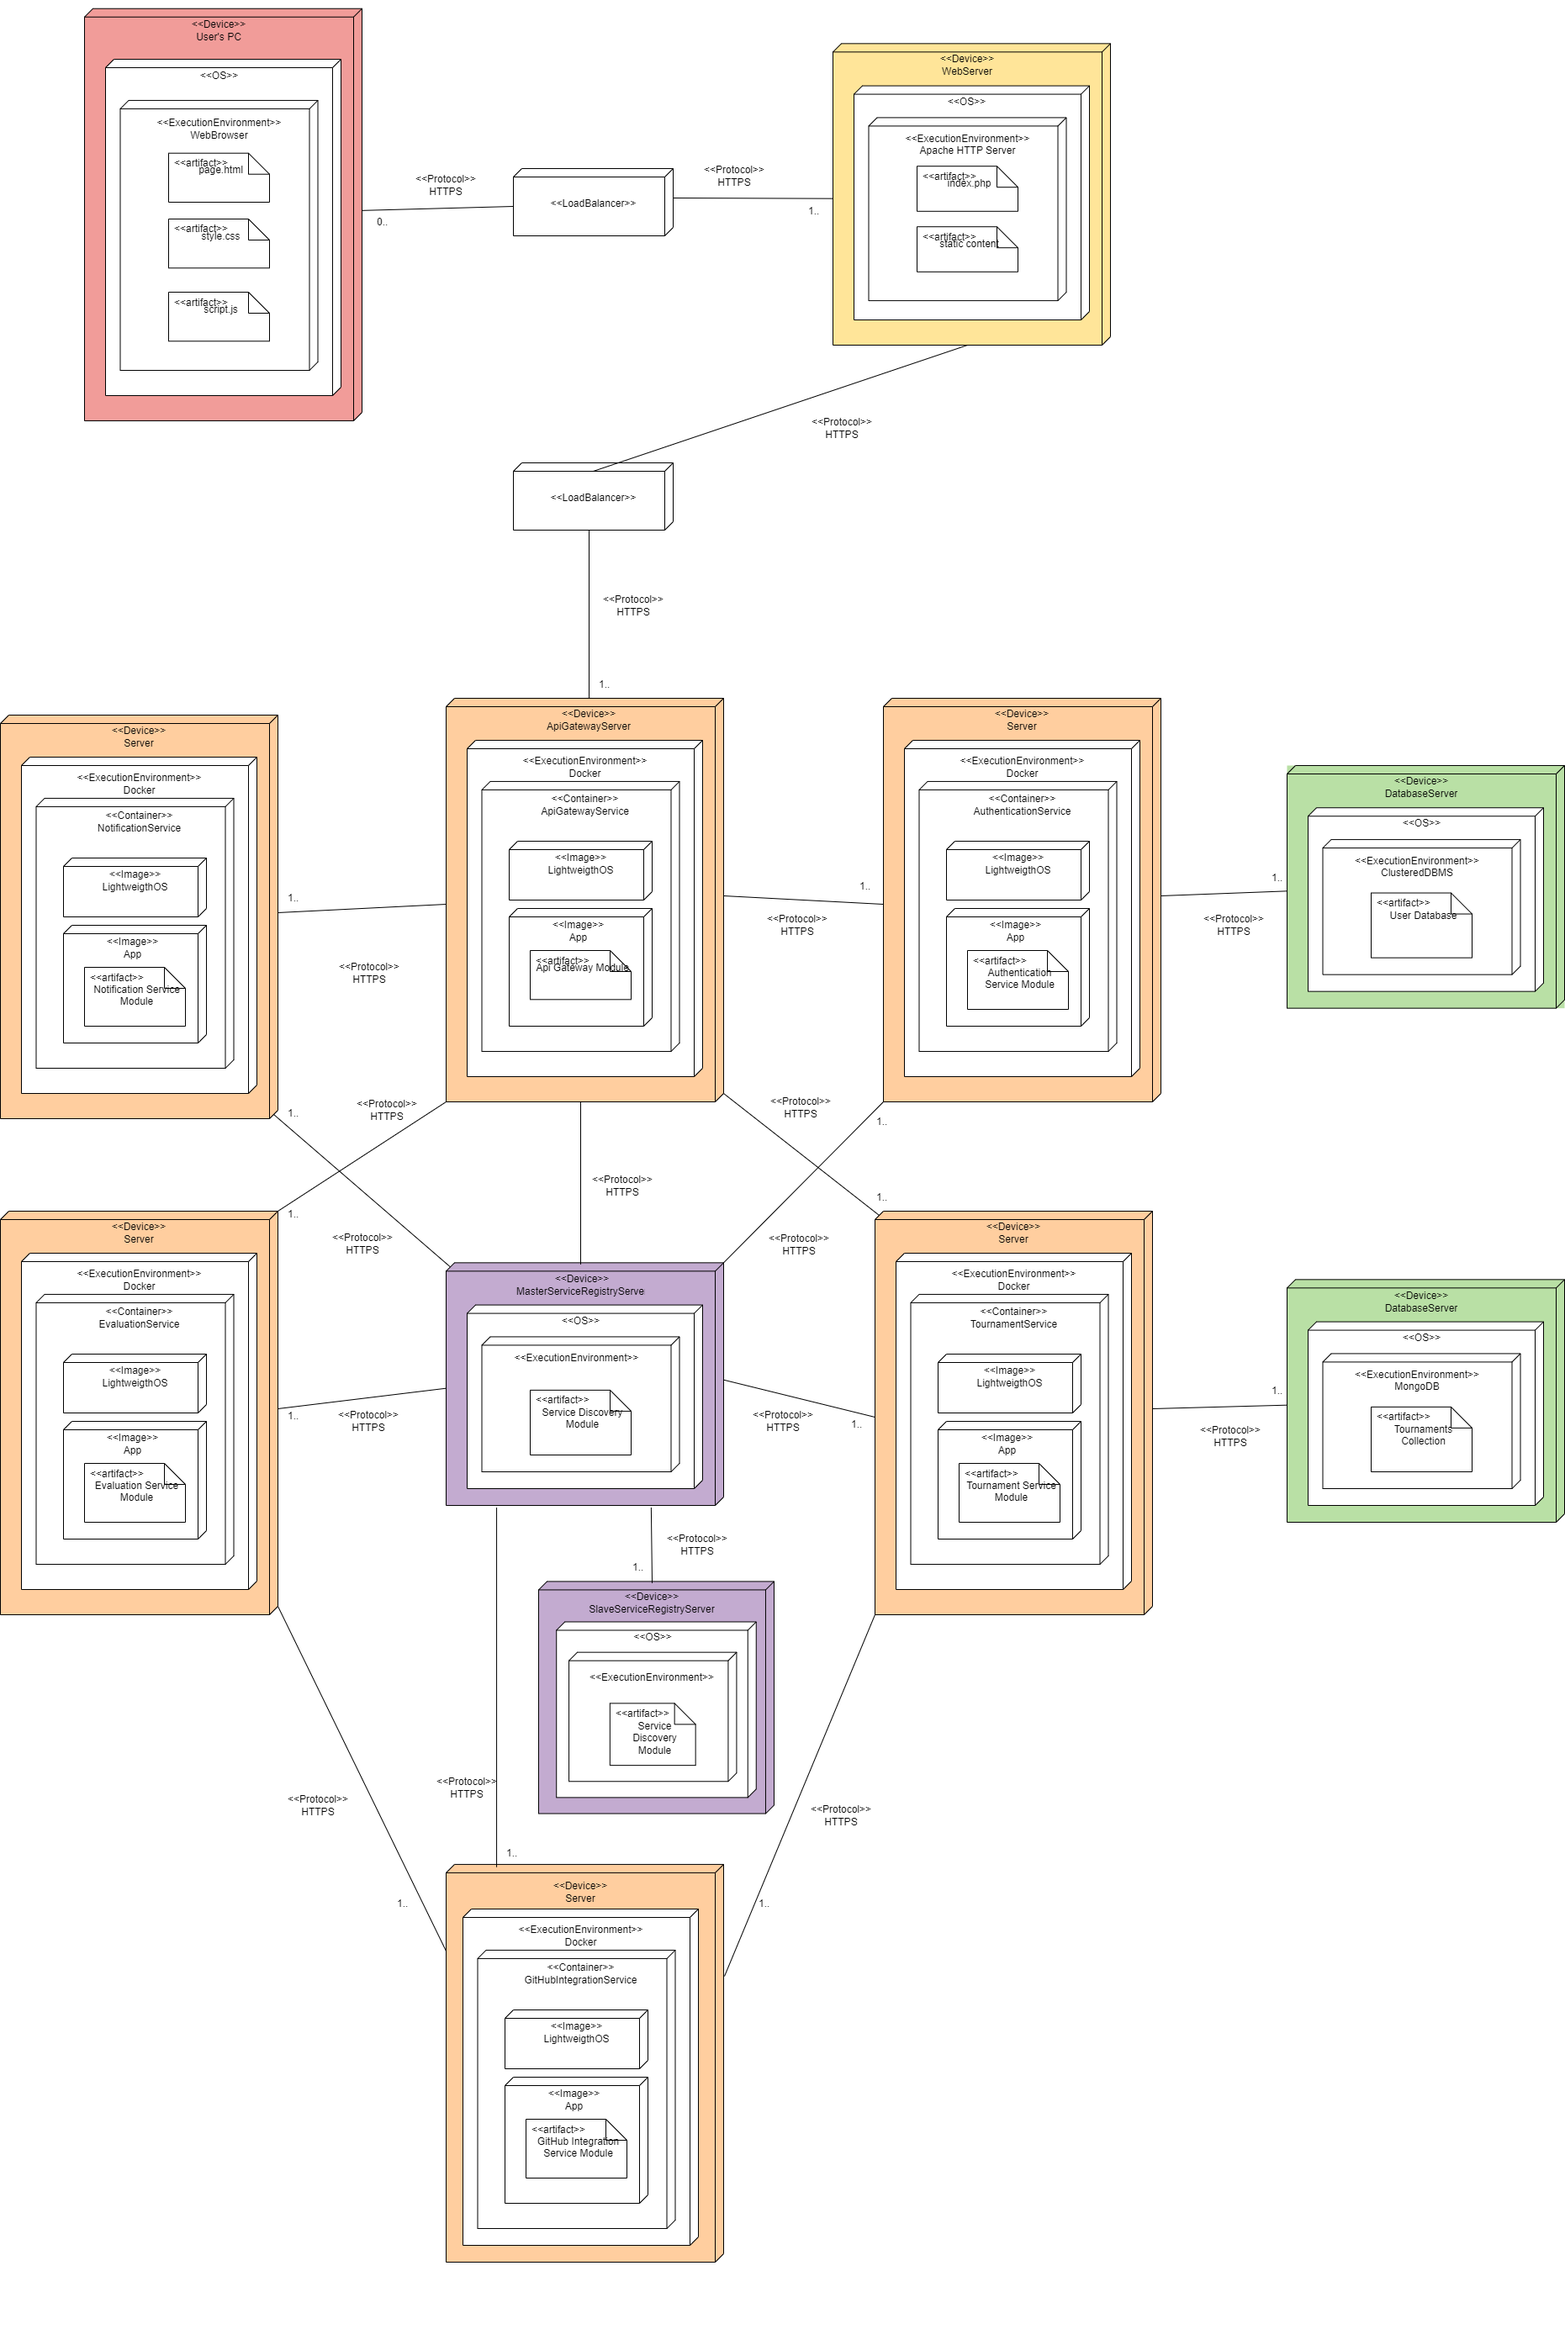
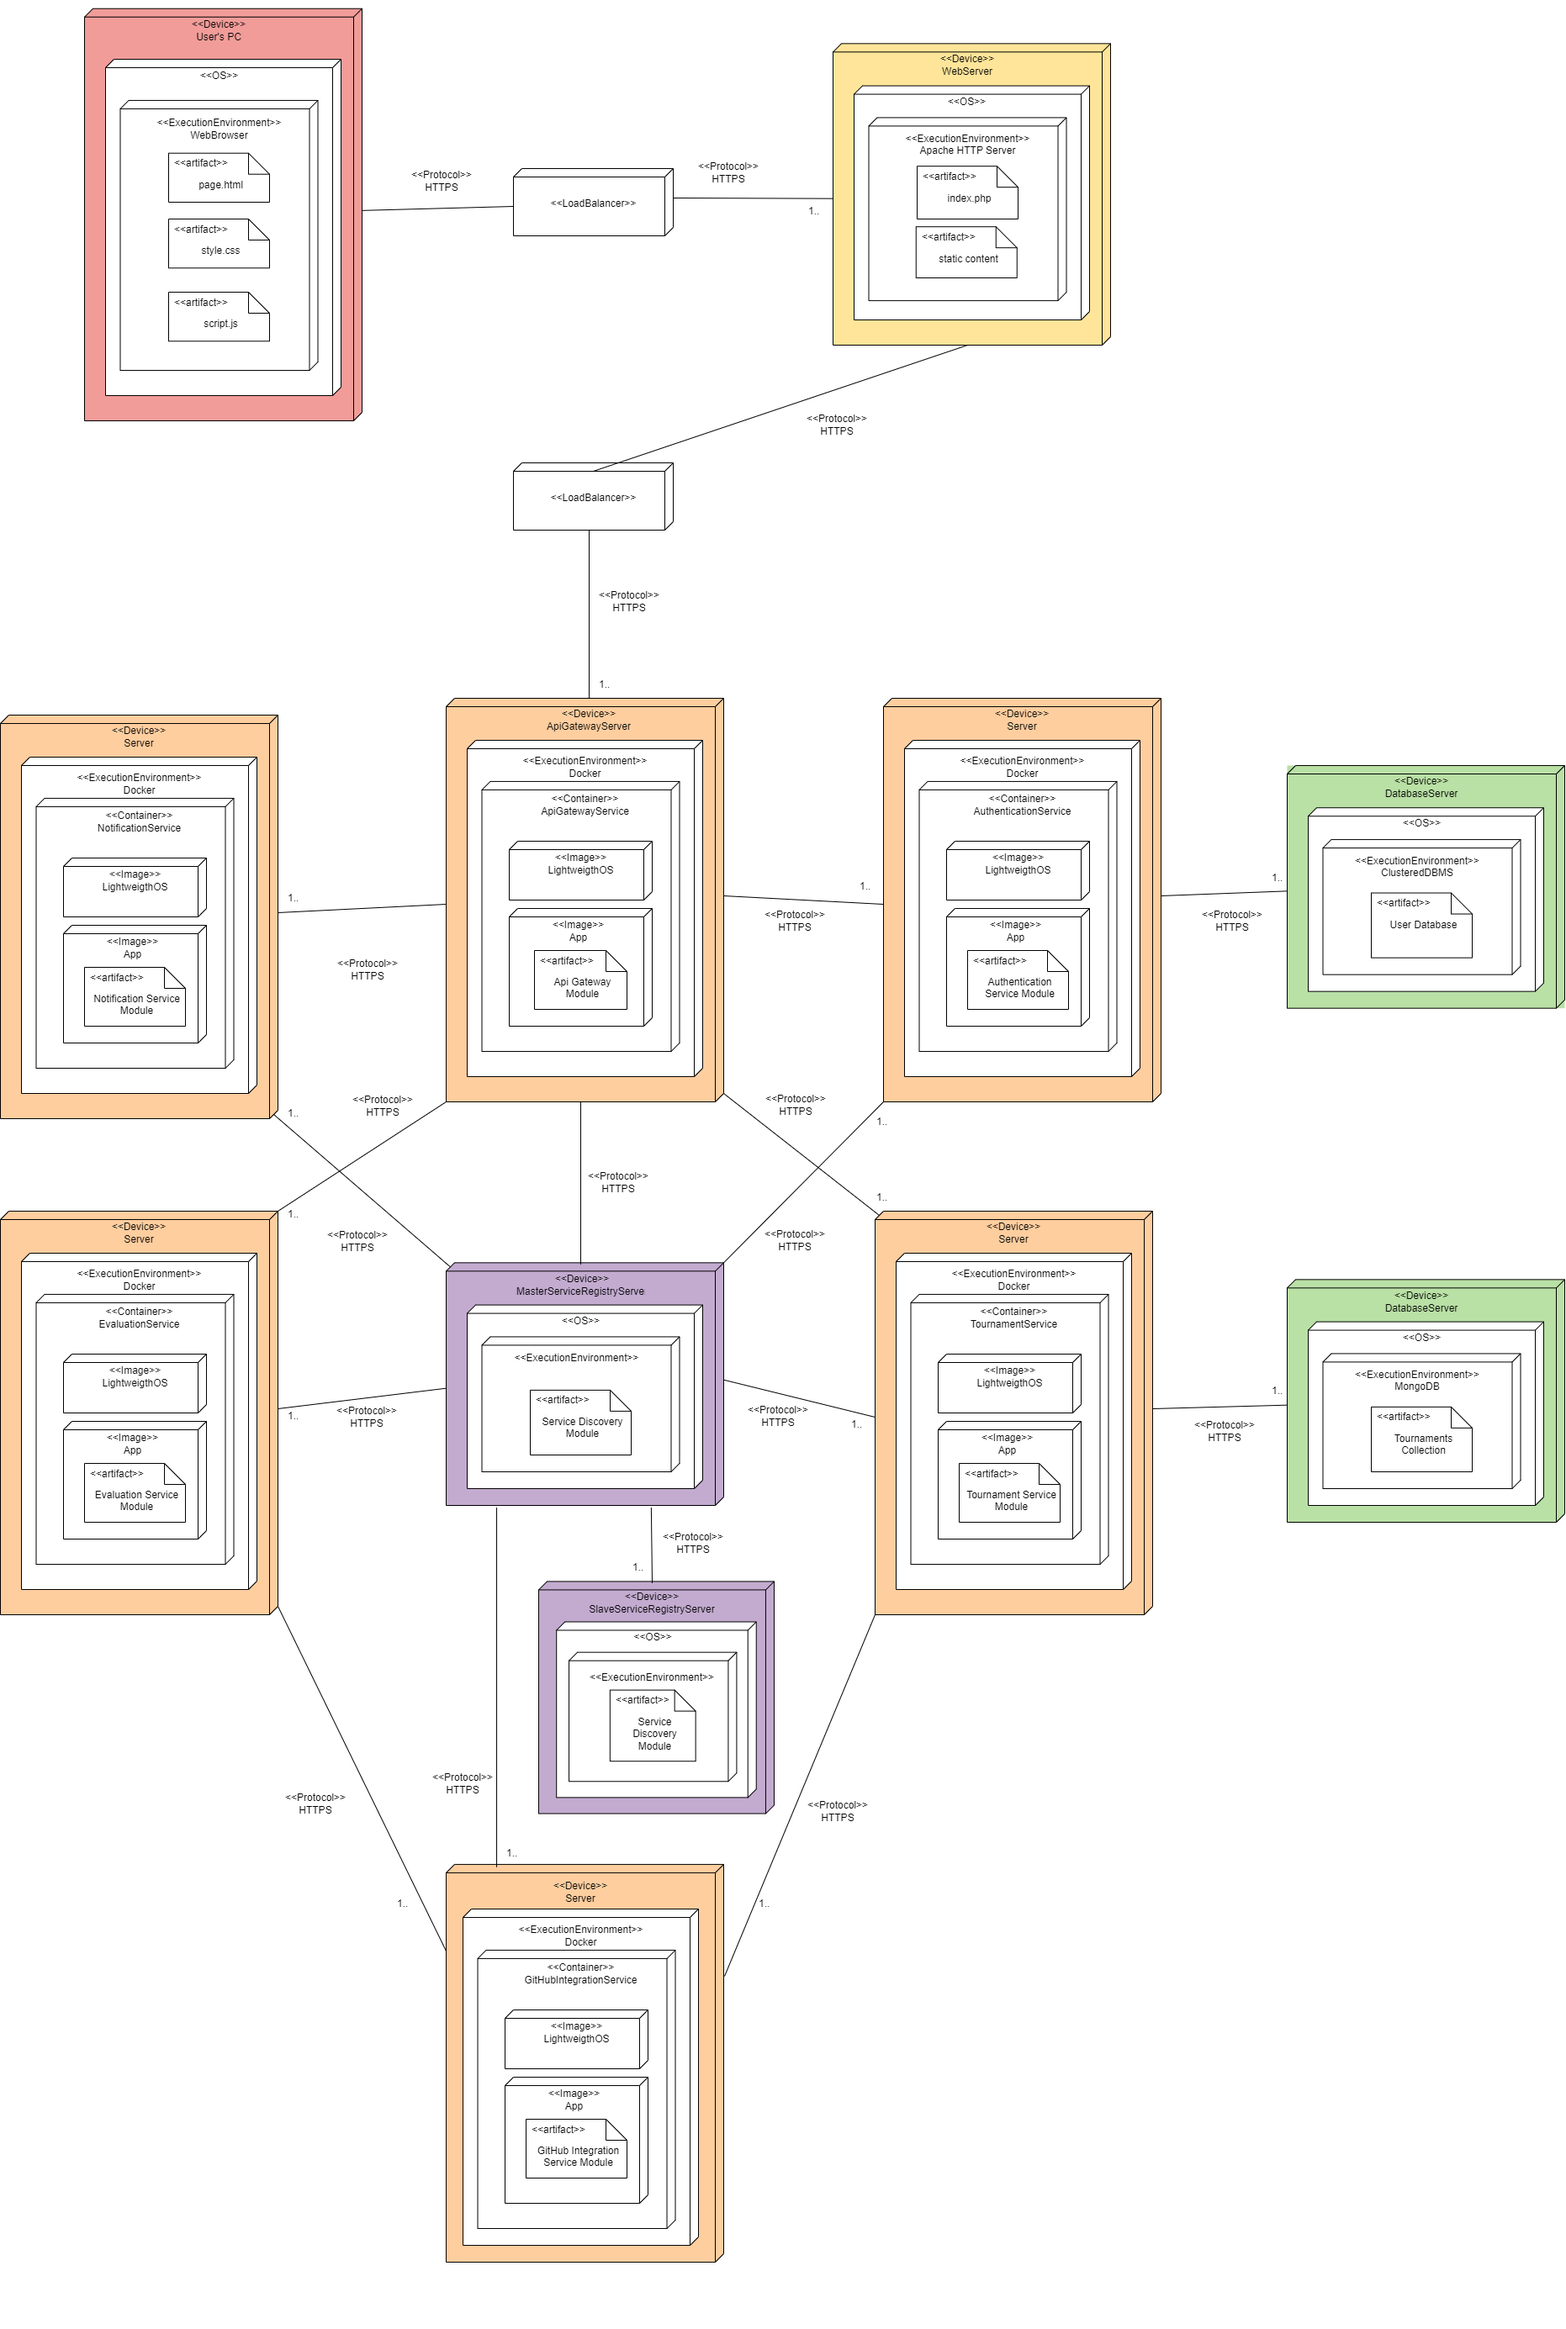
finished deployment diagram description DD

diff --git a/DD/Files/architectural.tex b/DD/Files/architectural.tex
@@ -24,12 +24,12 @@ The following component diagram highlights the main components of the system and
 been organized to highlight the logical grouping of the system elements.\\The WebApplication component represents the presentation layer of the system, being the only entry point for the users.
 The application and integration logics are represented together due to their tight interaction, while the data layer contains the databases accessed by the respective microservices.
 Different colors are used to highlight components that share similar roles in the system.\\ \textcolor{orange}{Orange} components represent the system's microservices. Some complex microservices have been further decomposed into subcomponents, for a more fine grained representation.\\
-\textcolor{yellow}{Yellow} components represent the model of the database accessed by its microservice. The model offers to the microservice an abstraction of the database, allowing it to access the data without knowing the underlying database implementation technology.\\ 
+\textcolor{myyellow}{Yellow} components represent the model of the database accessed by its microservice. The model offers to the microservice an abstraction of the database, allowing it to access the data without knowing the underlying database implementation technology.\\ 
 The \textcolor{violet}{violet} has been used to highlight components or services that cover an important role for the communication between microservices. It has been used for the queues subcomponents, which are used to implement the asynchronous and concurrent communication between specific microservices.
 Also the ServiceRegistry has been represented with the this color, since it enables the communication in the system.
 Some microservices have an important role in the integration and communication with external entities as well, but have been depicted with their orange color used for microservices. This aspect will be clarified in the detailed description of the components that follows the diagram.\\
 \textcolor{red}{Red} components represent the external services that interact with the system.\\
-Finally, the \textcolor{green}{green} color has been used to highlight the databases components that are used to store the data of the system.\\
+Finally, the \textcolor{mygreen}{green} color has been used to highlight the databases components that are used to store the data of the system.\\
 It's important to notice that for the sake of simplicity and readability, the interface offered by the ServiceRegistry has been depicted with some dotted arrows that connect all the microservices to it.
 
 \newpage
@@ -124,7 +124,7 @@ The Figure \ref{component_diagram} contains also some external entities the syst
 \subsection{Deployment view}
 The following diagram represents the deployment architecture of the system, highlighting the physical nodes on which the system will be deployed and the communication channels between them.
 
-In Figure \ref{deployment_diagram} the nodes have been colored according to the color scheme defined in the component view exception, with the only difference that the \textcolor{red}{red} color has been used to identify the user's web browser and the \textcolor{yellow}{yellow} one to represent the system's web server.
+In Figure \ref{deployment_diagram} the nodes have been colored according to the color scheme defined in the component view exception, with the only difference that the \textcolor{red}{red} color has been used to identify the user's web browser and the \textcolor{myyellow}{yellow} one to represent the system's web server.
 \begin{figure}[H]
     \centering
     \vspace{-4cm}
@@ -133,6 +133,11 @@ In Figure \ref{deployment_diagram} the nodes have been colored according to the 
     \caption{Deployment diagram}
     \label{deployment_diagram}
 \end{figure}
+The most important aspects that are worth noticing are:
+\begin{itemize}
+    \item Each microservice has its own queue: these are logged (i.e. also persisted in main memory) so that, in case of failure, a new service can be deployed and the previous queue can be restored. This allows the system to be fault tolerant and to ensure that no communication data is lost.
+    \item Most of the microservices are deployed in a containerized environment, using Docker containers. This allows them to be easily deployed on necessity, allowing the system to scale out according to the current load. The Service Registry instead is deployed in a non-containerized environment, since it is a critical component of the system and it is important to ensure its availability. In particular, in order to achieve this, a master-slave approach has been chosen. The master instance is deployed on a physical node, while slave instances are deployed on different nodes: the latter ones have the task of monitoring the master instance and to copy its logs. In this way, if the master instance fails, one of the slave instances (e.g. chosen through a consensus algorithm) can be promoted to master so the system can continue to work from the point the master left without any interruption.
+\end{itemize}
 
 \subsection{Component interfaces}
 \subsection{Runtime view}

diff --git a/DD/dd.tex b/DD/dd.tex
@@ -20,7 +20,8 @@
 
 % Personalized colors
 \usepackage[dvipsnames]{xcolor}
-\definecolor{mycolor}{rgb}{0.858, 0.188, 0.478}
+\definecolor{myyellow}{RGB}{252, 186, 3}
+\definecolor{mygreen}{RGB}{4, 145, 68}
 
 \usepackage{graphicx}
 \usepackage[T1]{fontenc}
